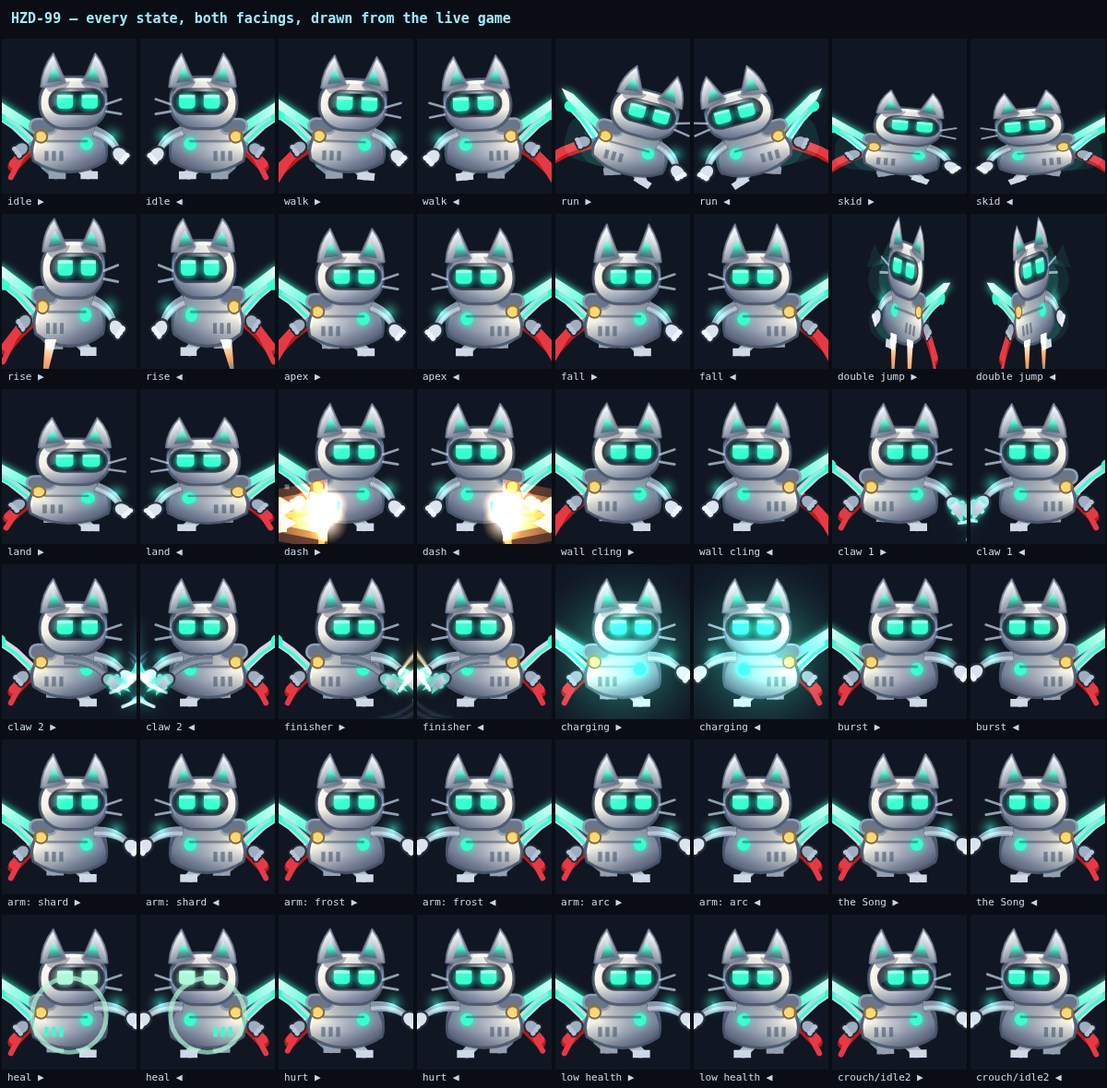
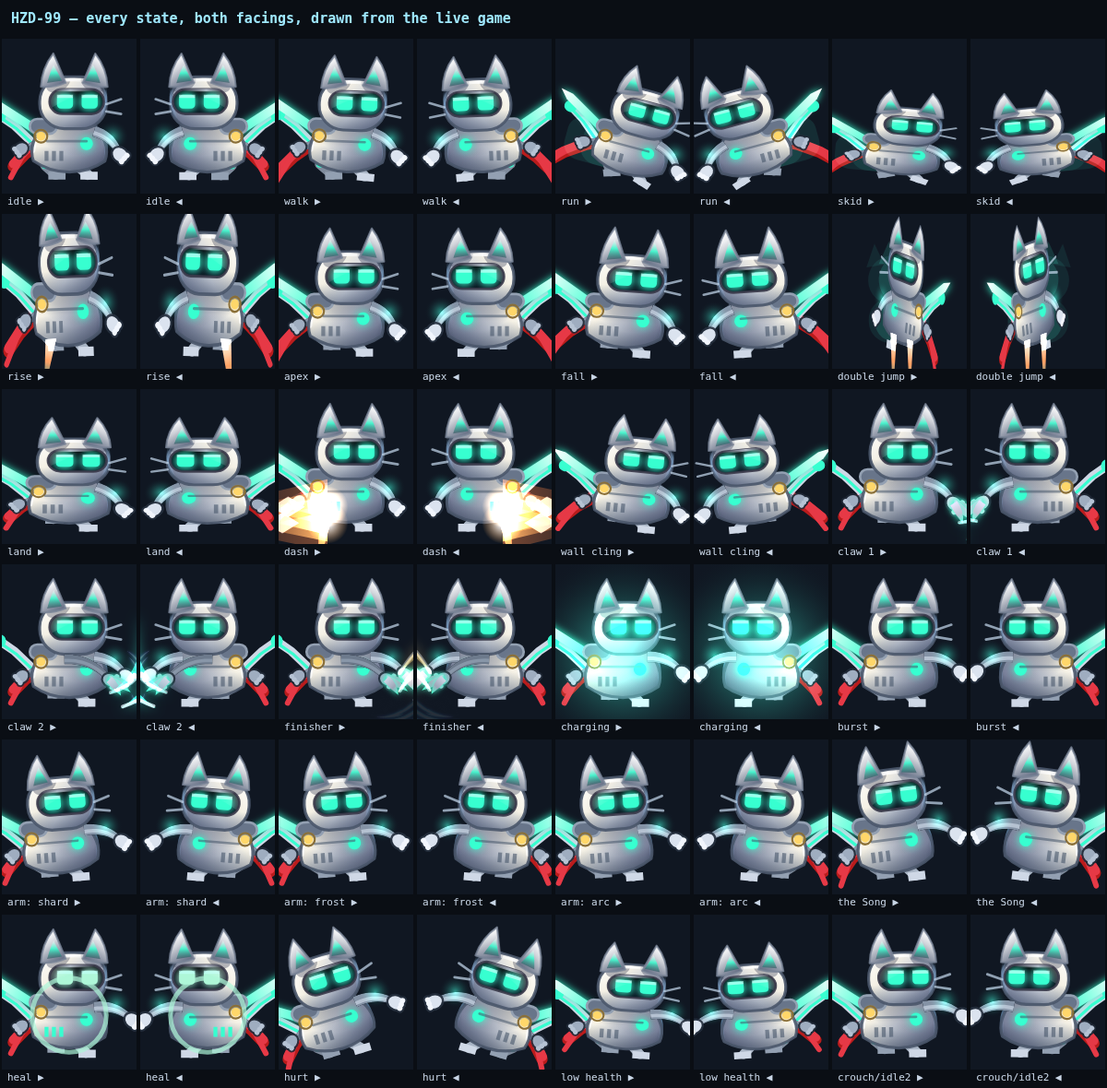
Every state she has now has a body — and the law that keeps it that way
"Impress me" is the brief, and the impressive thing available without the art
socket is closing the gap the state sheet exposed: states where she has the
mechanic and idle's body. The count is now zero, and it is HELD at zero.

THE SILHOUETTE LAW APPLIES TO HER NOW. The guardians have obeyed §3.3 since
the bible was written; she never did. tests/hero.cjs renders fourteen named
states and fails the build if any of them matches idle above IoU 0.90 — looser
than the guardians' 0.86 because her poses are carriage and lean rather than
limbs thrown a body-length, but a line, with teeth.

WHAT THE LAW CAUGHT ON ITS FIRST RUN: mid-air, she measured 0.92 against
standing still. Rising and falling were a standing picture on a parabola —
the exact sin NULLFANG's leap was convicted of, in the player character,
all along. The rise is drawn long now (stretched along the jump, tipped back
off it), the fall gathered and pitched into it, blended by vertical speed so
the apex passes through neutral.

THE THREE POSES THE SHEET CAUGHT MISSING, built in the same carriage stage as
every existing pose so they compose instead of fighting:
  the Song    up on her toes, chest lifted, head thrown back — a note thrown
              at the sky, which is what the Song is in the fiction
  arm fire    a beat of recoil off the firing line, settling with the cooldown,
              so every arm reads as having kick before its projectile is seen
[…]

diff --git a/index.html b/index.html
@@ -225,7 +225,7 @@
 })();
 </script>
 
-<script>window.BUILD_ID="mstax2i7";window.GAME_LOCK="robo";window.MUS_FILES={"ambient_observing_the_star":"assets/music/ambient_observing_the_star.ogg","epic_combat":"assets/music/epic_combat.ogg","mus_alpha":"assets/music/mus_alpha.m4a","mus_alphatame":"assets/music/mus_alphatame.m4a","mus_archives":"assets/music/mus_archives.m4a","mus_boss":"assets/music/mus_boss.m4a","mus_cache":"assets/music/mus_cache.m4a","mus_conduits":"assets/music/mus_conduits.m4a","mus_ending":"assets/music/mus_ending.m4a","mus_eye":"assets/music/mus_eye.m4a","mus_foundry":"assets/music/mus_foundry.m4a","mus_furnace":"assets/music/mus_furnace.m4a","mus_glaciere":"assets/music/mus_glaciere.m4a","mus_intro":"assets/music/mus_intro.m4a","mus_meadows":"assets/music/mus_meadows.m4a","mus_mother":"assets/music/mus_mother.m4a","mus_nest":"assets/music/mus_nest.m4a","mus_nullfang":"assets/music/mus_nullfang.m4a","mus_prism":"assets/music/mus_prism.m4a","mus_talonhost":"assets/music/mus_talonhost.m4a","mus_title":"assets/music/mus_title.m4a"};window.VID_FILES={"end_atlas":"assets/video/end_atlas.mp4","end_brood":"assets/video/end_brood.mp4","end_close":"assets/video/end_close.mp4","end_folk":"assets/video/end_folk.mp4","end_glitch":"assets/video/end_glitch.mp4","end_mother":"assets/video/end_mother.mp4","end_open":"assets/video/end_open.mp4","end_prism":"assets/video/end_prism.mp4","end_zero":"assets/video/end_zero.mp4","intro1":"assets/video/intro1.mp4","intro2":"assets/video/intro2.mp4","intro3":"assets/video/intro3.mp4","intro4":"assets/video/intro4.mp4","intro5":"assets/video/intro5.mp4","intro6":"assets/video/intro6.mp4","intro7":"assets/video/intro7.mp4","intro8":"assets/video/intro8.mp4","purify_atlas":"assets/video/purify_atlas.mp4","purify_brood":"assets/video/purify_brood.mp4","purify_glitch":"assets/video/purify_glitch.mp4","purify_prism":"assets/video/purify_prism.mp4","purify_zero":"assets/video/purify_zero.mp4"};window.VID_ALT={"end_atlas":"assets/video/end_atlas.webm","end_brood":"assets/video/end_brood.webm","end_close":"assets/video/end_close.webm","end_folk":"assets/video/end_folk.webm","end_glitch":"assets/video/end_glitch.webm","end_mother":"assets/video/end_mother.webm","end_open":"assets/video/end_open.webm","end_prism":"assets/video/end_prism.webm","end_zero":"assets/video/end_zero.webm","intro1":"assets/video/intro1.webm","intro2":"assets/video/intro2.webm","intro3":"assets/video/intro3.webm","intro4":"assets/video/intro4.webm","intro5":"assets/video/intro5.webm","intro6":"assets/video/intro6.webm","intro7":"assets/video/intro7.webm","intro8":"assets/video/intro8.webm","purify_atlas":"assets/video/purify_atlas.webm","purify_brood":"assets/video/purify_brood.webm","purify_glitch":"assets/video/purify_glitch.webm","purify_prism":"assets/video/purify_prism.webm","purify_zero":"assets/video/purify_zero.webm"};window.VOX_FILES={"lumen0":"assets/vox/lumen0.ogg","lumen1":"assets/vox/lumen1.ogg","lumen2":"assets/vox/lumen2.ogg","mono0":"assets/vox/mono0.ogg","mono1":"assets/vox/mono1.ogg","mono2":"assets/vox/mono2.ogg","patch0":"assets/vox/patch0.ogg","patch1":"assets/vox/patch1.ogg","patch2":"assets/vox/patch2.ogg","ratchet0":"assets/vox/ratchet0.ogg","ratchet1":"assets/vox/ratchet1.ogg","sage0":"assets/vox/sage0.ogg","sage1":"assets/vox/sage1.ogg","sage2":"assets/vox/sage2.ogg","servo0":"assets/vox/servo0.ogg","servo1":"assets/vox/servo1.ogg","servo2":"assets/vox/servo2.ogg","servo3":"assets/vox/servo3.ogg"}</script>
+<script>window.BUILD_ID="mstbko2l";window.GAME_LOCK="robo";window.MUS_FILES={"ambient_observing_the_star":"assets/music/ambient_observing_the_star.ogg","epic_combat":"assets/music/epic_combat.ogg","mus_alpha":"assets/music/mus_alpha.m4a","mus_alphatame":"assets/music/mus_alphatame.m4a","mus_archives":"assets/music/mus_archives.m4a","mus_boss":"assets/music/mus_boss.m4a","mus_cache":"assets/music/mus_cache.m4a","mus_conduits":"assets/music/mus_conduits.m4a","mus_ending":"assets/music/mus_ending.m4a","mus_eye":"assets/music/mus_eye.m4a","mus_foundry":"assets/music/mus_foundry.m4a","mus_furnace":"assets/music/mus_furnace.m4a","mus_glaciere":"assets/music/mus_glaciere.m4a","mus_intro":"assets/music/mus_intro.m4a","mus_meadows":"assets/music/mus_meadows.m4a","mus_mother":"assets/music/mus_mother.m4a","mus_nest":"assets/music/mus_nest.m4a","mus_nullfang":"assets/music/mus_nullfang.m4a","mus_prism":"assets/music/mus_prism.m4a","mus_talonhost":"assets/music/mus_talonhost.m4a","mus_title":"assets/music/mus_title.m4a"};window.VID_FILES={"end_atlas":"assets/video/end_atlas.mp4","end_brood":"assets/video/end_brood.mp4","end_close":"assets/video/end_close.mp4","end_folk":"assets/video/end_folk.mp4","end_glitch":"assets/video/end_glitch.mp4","end_mother":"assets/video/end_mother.mp4","end_open":"assets/video/end_open.mp4","end_prism":"assets/video/end_prism.mp4","end_zero":"assets/video/end_zero.mp4","intro1":"assets/video/intro1.mp4","intro2":"assets/video/intro2.mp4","intro3":"assets/video/intro3.mp4","intro4":"assets/video/intro4.mp4","intro5":"assets/video/intro5.mp4","intro6":"assets/video/intro6.mp4","intro7":"assets/video/intro7.mp4","intro8":"assets/video/intro8.mp4","purify_atlas":"assets/video/purify_atlas.mp4","purify_brood":"assets/video/purify_brood.mp4","purify_glitch":"assets/video/purify_glitch.mp4","purify_prism":"assets/video/purify_prism.mp4","purify_zero":"assets/video/purify_zero.mp4"};window.VID_ALT={"end_atlas":"assets/video/end_atlas.webm","end_brood":"assets/video/end_brood.webm","end_close":"assets/video/end_close.webm","end_folk":"assets/video/end_folk.webm","end_glitch":"assets/video/end_glitch.webm","end_mother":"assets/video/end_mother.webm","end_open":"assets/video/end_open.webm","end_prism":"assets/video/end_prism.webm","end_zero":"assets/video/end_zero.webm","intro1":"assets/video/intro1.webm","intro2":"assets/video/intro2.webm","intro3":"assets/video/intro3.webm","intro4":"assets/video/intro4.webm","intro5":"assets/video/intro5.webm","intro6":"assets/video/intro6.webm","intro7":"assets/video/intro7.webm","intro8":"assets/video/intro8.webm","purify_atlas":"assets/video/purify_atlas.webm","purify_brood":"assets/video/purify_brood.webm","purify_glitch":"assets/video/purify_glitch.webm","purify_prism":"assets/video/purify_prism.webm","purify_zero":"assets/video/purify_zero.webm"};window.VOX_FILES={"lumen0":"assets/vox/lumen0.ogg","lumen1":"assets/vox/lumen1.ogg","lumen2":"assets/vox/lumen2.ogg","mono0":"assets/vox/mono0.ogg","mono1":"assets/vox/mono1.ogg","mono2":"assets/vox/mono2.ogg","patch0":"assets/vox/patch0.ogg","patch1":"assets/vox/patch1.ogg","patch2":"assets/vox/patch2.ogg","ratchet0":"assets/vox/ratchet0.ogg","ratchet1":"assets/vox/ratchet1.ogg","sage0":"assets/vox/sage0.ogg","sage1":"assets/vox/sage1.ogg","sage2":"assets/vox/sage2.ogg","servo0":"assets/vox/servo0.ogg","servo1":"assets/vox/servo1.ogg","servo2":"assets/vox/servo2.ogg","servo3":"assets/vox/servo3.ogg"}</script>
 <script>
 // THE FIRST BOSS — virus-infected robot beast, and its whelps.
 //
@@ -12024,12 +12024,55 @@ class Player {
         sy += 0.18 * q; sx -= 0.1 * q;
       }
     }
+    // ---- THE THREE POSES THE STATE SHEET CAUGHT MISSING -------------------
+    // The full-state audit (tools/statesheet.cjs) put every state next to idle
+    // and three of them were the same drawing: the Song, the beat after firing
+    // an arm, and standing at one core. Each is a MECHANIC the body ignored.
+    // The fixes live here, in the same carriage/rotation stage as every other
+    // pose, so they compose with running, landing and the rest instead of
+    // fighting them — and tests/hero.cjs now holds each one to the guardians'
+    // silhouette law, so none of them can quietly become idle again.
+    //
+    // THE SONG: she stands INTO it — up on her toes, chest lifted, head back.
+    // A note thrown at the sky, which is what the Song is in the fiction.
+    const songK = this.songT > 0 ? clamp(this.songT / 0.5, 0, 1) : 0;
+    // ARM FIRE: the shot has a beat of recoil. The body rocks back off the
+    // firing line and settles as the cooldown runs out, so every arm reads as
+    // having KICK even before its projectile is seen.
+    const kick = this.armCD > 0 ? clamp(this.armCD / 0.3, 0, 1) : 0;
+    // ONE CORE LEFT: she is hurt and it shows between fights — shoulders
+    // dropped, carriage low, the run unaffected (a limp that slows the PLAYER
+    // is punishing the state twice; this is body language, not a debuff).
+    const lowK = (this.cores <= 1 && this.on && !run && this.dashT <= 0
+                  && !this.swingVis && this.healT <= 0) ? 1 : 0;
+    // AIRBORNE — the find that put this block under a harness: mid-air she
+    // measured 0.92 IoU against standing still. A standing picture on a
+    // parabola is exactly what NULLFANG's leap was convicted of, and she had
+    // been doing it herself all along. The rise stretches her ALONG the jump
+    // and tips her back off it; the fall compresses and pitches her INTO it,
+    // reading forward the way anything falling with intent does. Blended by
+    // vertical speed so the apex passes through neutral instead of popping.
+    let airRot = 0;
+    if (!this.on && this.wallSlide === 0 && this.dashT <= 0 && this.flipT <= 0
+        && this.landT <= 0 && this.hurtPoseT <= 0) {
+      const vk = clamp(this.vy / 760, -1, 1);
+      if (vk < 0) { sy += -vk * 0.13; sx -= -vk * 0.08; }   // the rise: drawn long
+      else { sy -= vk * 0.05; sx += vk * 0.04; }            // the fall: gathered
+      airRot = vk < 0 ? vk * 0.07 : vk * 0.12;              // back off it, then into it
+    }
     const cr = (this.skidT > 0 ? 0.2 : (this.wallSlide !== 0 ? 0.1 : 0))
-             + (run ? sprintK * 0.12 : 0);                          // low, coiled sprint carriage
+             + (run ? sprintK * 0.12 : 0)                           // low, coiled sprint carriage
+             - songK * 0.08                                        // the Song: drawn UP, not down
+             + lowK * 0.11;                                        // one core: sagging carriage
     if (this.wallSlide !== 0) c.translate(2.5, 0);                  // body pressed INTO the wall
+    if (kick > 0) c.translate(-2.6 * kick, 0);                      // rocked off the firing line
     c.rotate(this.lean + (this.skidT > 0 ? -0.14 : 0) + (this.wallSlide !== 0 ? 0.1 : 0)
              + (run ? sprintK * 0.3 : 0)                            // pitched forward, chasing the ground
              + (this.hurtPoseT > 0 ? -0.3 * (this.hurtPoseT / 0.3) : 0)  // thrown back, off balance
+             + airRot                                       // the leap's own pitch
+             - songK * 0.13                                        // head and chest thrown back to sing
+             - kick * 0.09                                         // recoil rocks her heels-back
+             + lowK * 0.07                                         // one core: hunched forward
              + (this.idleT > 0.9 ? Math.sin(this.idleT * 0.9) * 0.022 : 0)); // idle weight shift
     // THE FRAME THE CUT LIVES IN, captured here and not one line later. Below
     // this point the transform stops describing where she IS and starts

diff --git a/odyssey.html b/odyssey.html
@@ -225,7 +225,7 @@
 })();
 </script>
 
-<script>window.BUILD_ID="mstax2i7";window.GAME_LOCK="hero";window.MUS_FILES={"ambient_observing_the_star":"assets/music/ambient_observing_the_star.ogg","epic_combat":"assets/music/epic_combat.ogg","mus_alpha":"assets/music/mus_alpha.m4a","mus_alphatame":"assets/music/mus_alphatame.m4a","mus_archives":"assets/music/mus_archives.m4a","mus_boss":"assets/music/mus_boss.m4a","mus_cache":"assets/music/mus_cache.m4a","mus_conduits":"assets/music/mus_conduits.m4a","mus_ending":"assets/music/mus_ending.m4a","mus_eye":"assets/music/mus_eye.m4a","mus_foundry":"assets/music/mus_foundry.m4a","mus_furnace":"assets/music/mus_furnace.m4a","mus_glaciere":"assets/music/mus_glaciere.m4a","mus_intro":"assets/music/mus_intro.m4a","mus_meadows":"assets/music/mus_meadows.m4a","mus_mother":"assets/music/mus_mother.m4a","mus_nest":"assets/music/mus_nest.m4a","mus_nullfang":"assets/music/mus_nullfang.m4a","mus_prism":"assets/music/mus_prism.m4a","mus_talonhost":"assets/music/mus_talonhost.m4a","mus_title":"assets/music/mus_title.m4a"};window.VID_FILES={"end_atlas":"assets/video/end_atlas.mp4","end_brood":"assets/video/end_brood.mp4","end_close":"assets/video/end_close.mp4","end_folk":"assets/video/end_folk.mp4","end_glitch":"assets/video/end_glitch.mp4","end_mother":"assets/video/end_mother.mp4","end_open":"assets/video/end_open.mp4","end_prism":"assets/video/end_prism.mp4","end_zero":"assets/video/end_zero.mp4","intro1":"assets/video/intro1.mp4","intro2":"assets/video/intro2.mp4","intro3":"assets/video/intro3.mp4","intro4":"assets/video/intro4.mp4","intro5":"assets/video/intro5.mp4","intro6":"assets/video/intro6.mp4","intro7":"assets/video/intro7.mp4","intro8":"assets/video/intro8.mp4","purify_atlas":"assets/video/purify_atlas.mp4","purify_brood":"assets/video/purify_brood.mp4","purify_glitch":"assets/video/purify_glitch.mp4","purify_prism":"assets/video/purify_prism.mp4","purify_zero":"assets/video/purify_zero.mp4"};window.VID_ALT={"end_atlas":"assets/video/end_atlas.webm","end_brood":"assets/video/end_brood.webm","end_close":"assets/video/end_close.webm","end_folk":"assets/video/end_folk.webm","end_glitch":"assets/video/end_glitch.webm","end_mother":"assets/video/end_mother.webm","end_open":"assets/video/end_open.webm","end_prism":"assets/video/end_prism.webm","end_zero":"assets/video/end_zero.webm","intro1":"assets/video/intro1.webm","intro2":"assets/video/intro2.webm","intro3":"assets/video/intro3.webm","intro4":"assets/video/intro4.webm","intro5":"assets/video/intro5.webm","intro6":"assets/video/intro6.webm","intro7":"assets/video/intro7.webm","intro8":"assets/video/intro8.webm","purify_atlas":"assets/video/purify_atlas.webm","purify_brood":"assets/video/purify_brood.webm","purify_glitch":"assets/video/purify_glitch.webm","purify_prism":"assets/video/purify_prism.webm","purify_zero":"assets/video/purify_zero.webm"};window.VOX_FILES={"lumen0":"assets/vox/lumen0.ogg","lumen1":"assets/vox/lumen1.ogg","lumen2":"assets/vox/lumen2.ogg","mono0":"assets/vox/mono0.ogg","mono1":"assets/vox/mono1.ogg","mono2":"assets/vox/mono2.ogg","patch0":"assets/vox/patch0.ogg","patch1":"assets/vox/patch1.ogg","patch2":"assets/vox/patch2.ogg","ratchet0":"assets/vox/ratchet0.ogg","ratchet1":"assets/vox/ratchet1.ogg","sage0":"assets/vox/sage0.ogg","sage1":"assets/vox/sage1.ogg","sage2":"assets/vox/sage2.ogg","servo0":"assets/vox/servo0.ogg","servo1":"assets/vox/servo1.ogg","servo2":"assets/vox/servo2.ogg","servo3":"assets/vox/servo3.ogg"}</script>
+<script>window.BUILD_ID="mstbko2l";window.GAME_LOCK="hero";window.MUS_FILES={"ambient_observing_the_star":"assets/music/ambient_observing_the_star.ogg","epic_combat":"assets/music/epic_combat.ogg","mus_alpha":"assets/music/mus_alpha.m4a","mus_alphatame":"assets/music/mus_alphatame.m4a","mus_archives":"assets/music/mus_archives.m4a","mus_boss":"assets/music/mus_boss.m4a","mus_cache":"assets/music/mus_cache.m4a","mus_conduits":"assets/music/mus_conduits.m4a","mus_ending":"assets/music/mus_ending.m4a","mus_eye":"assets/music/mus_eye.m4a","mus_foundry":"assets/music/mus_foundry.m4a","mus_furnace":"assets/music/mus_furnace.m4a","mus_glaciere":"assets/music/mus_glaciere.m4a","mus_intro":"assets/music/mus_intro.m4a","mus_meadows":"assets/music/mus_meadows.m4a","mus_mother":"assets/music/mus_mother.m4a","mus_nest":"assets/music/mus_nest.m4a","mus_nullfang":"assets/music/mus_nullfang.m4a","mus_prism":"assets/music/mus_prism.m4a","mus_talonhost":"assets/music/mus_talonhost.m4a","mus_title":"assets/music/mus_title.m4a"};window.VID_FILES={"end_atlas":"assets/video/end_atlas.mp4","end_brood":"assets/video/end_brood.mp4","end_close":"assets/video/end_close.mp4","end_folk":"assets/video/end_folk.mp4","end_glitch":"assets/video/end_glitch.mp4","end_mother":"assets/video/end_mother.mp4","end_open":"assets/video/end_open.mp4","end_prism":"assets/video/end_prism.mp4","end_zero":"assets/video/end_zero.mp4","intro1":"assets/video/intro1.mp4","intro2":"assets/video/intro2.mp4","intro3":"assets/video/intro3.mp4","intro4":"assets/video/intro4.mp4","intro5":"assets/video/intro5.mp4","intro6":"assets/video/intro6.mp4","intro7":"assets/video/intro7.mp4","intro8":"assets/video/intro8.mp4","purify_atlas":"assets/video/purify_atlas.mp4","purify_brood":"assets/video/purify_brood.mp4","purify_glitch":"assets/video/purify_glitch.mp4","purify_prism":"assets/video/purify_prism.mp4","purify_zero":"assets/video/purify_zero.mp4"};window.VID_ALT={"end_atlas":"assets/video/end_atlas.webm","end_brood":"assets/video/end_brood.webm","end_close":"assets/video/end_close.webm","end_folk":"assets/video/end_folk.webm","end_glitch":"assets/video/end_glitch.webm","end_mother":"assets/video/end_mother.webm","end_open":"assets/video/end_open.webm","end_prism":"assets/video/end_prism.webm","end_zero":"assets/video/end_zero.webm","intro1":"assets/video/intro1.webm","intro2":"assets/video/intro2.webm","intro3":"assets/video/intro3.webm","intro4":"assets/video/intro4.webm","intro5":"assets/video/intro5.webm","intro6":"assets/video/intro6.webm","intro7":"assets/video/intro7.webm","intro8":"assets/video/intro8.webm","purify_atlas":"assets/video/purify_atlas.webm","purify_brood":"assets/video/purify_brood.webm","purify_glitch":"assets/video/purify_glitch.webm","purify_prism":"assets/video/purify_prism.webm","purify_zero":"assets/video/purify_zero.webm"};window.VOX_FILES={"lumen0":"assets/vox/lumen0.ogg","lumen1":"assets/vox/lumen1.ogg","lumen2":"assets/vox/lumen2.ogg","mono0":"assets/vox/mono0.ogg","mono1":"assets/vox/mono1.ogg","mono2":"assets/vox/mono2.ogg","patch0":"assets/vox/patch0.ogg","patch1":"assets/vox/patch1.ogg","patch2":"assets/vox/patch2.ogg","ratchet0":"assets/vox/ratchet0.ogg","ratchet1":"assets/vox/ratchet1.ogg","sage0":"assets/vox/sage0.ogg","sage1":"assets/vox/sage1.ogg","sage2":"assets/vox/sage2.ogg","servo0":"assets/vox/servo0.ogg","servo1":"assets/vox/servo1.ogg","servo2":"assets/vox/servo2.ogg","servo3":"assets/vox/servo3.ogg"}</script>
 <script>
 // THE FIRST BOSS — virus-infected robot beast, and its whelps.
 //
@@ -12024,12 +12024,55 @@ class Player {
         sy += 0.18 * q; sx -= 0.1 * q;
       }
     }
+    // ---- THE THREE POSES THE STATE SHEET CAUGHT MISSING -------------------
+    // The full-state audit (tools/statesheet.cjs) put every state next to idle
+    // and three of them were the same drawing: the Song, the beat after firing
+    // an arm, and standing at one core. Each is a MECHANIC the body ignored.
+    // The fixes live here, in the same carriage/rotation stage as every other
+    // pose, so they compose with running, landing and the rest instead of
+    // fighting them — and tests/hero.cjs now holds each one to the guardians'
+    // silhouette law, so none of them can quietly become idle again.
+    //
+    // THE SONG: she stands INTO it — up on her toes, chest lifted, head back.
+    // A note thrown at the sky, which is what the Song is in the fiction.
+    const songK = this.songT > 0 ? clamp(this.songT / 0.5, 0, 1) : 0;
+    // ARM FIRE: the shot has a beat of recoil. The body rocks back off the
+    // firing line and settles as the cooldown runs out, so every arm reads as
+    // having KICK even before its projectile is seen.
+    const kick = this.armCD > 0 ? clamp(this.armCD / 0.3, 0, 1) : 0;
+    // ONE CORE LEFT: she is hurt and it shows between fights — shoulders
+    // dropped, carriage low, the run unaffected (a limp that slows the PLAYER
+    // is punishing the state twice; this is body language, not a debuff).
+    const lowK = (this.cores <= 1 && this.on && !run && this.dashT <= 0
+                  && !this.swingVis && this.healT <= 0) ? 1 : 0;
+    // AIRBORNE — the find that put this block under a harness: mid-air she
+    // measured 0.92 IoU against standing still. A standing picture on a
+    // parabola is exactly what NULLFANG's leap was convicted of, and she had
+    // been doing it herself all along. The rise stretches her ALONG the jump
+    // and tips her back off it; the fall compresses and pitches her INTO it,
+    // reading forward the way anything falling with intent does. Blended by
+    // vertical speed so the apex passes through neutral instead of popping.
+    let airRot = 0;
+    if (!this.on && this.wallSlide === 0 && this.dashT <= 0 && this.flipT <= 0
+        && this.landT <= 0 && this.hurtPoseT <= 0) {
+      const vk = clamp(this.vy / 760, -1, 1);
+      if (vk < 0) { sy += -vk * 0.13; sx -= -vk * 0.08; }   // the rise: drawn long
+      else { sy -= vk * 0.05; sx += vk * 0.04; }            // the fall: gathered
+      airRot = vk < 0 ? vk * 0.07 : vk * 0.12;              // back off it, then into it
+    }
     const cr = (this.skidT > 0 ? 0.2 : (this.wallSlide !== 0 ? 0.1 : 0))
-             + (run ? sprintK * 0.12 : 0);                          // low, coiled sprint carriage
+             + (run ? sprintK * 0.12 : 0)                           // low, coiled sprint carriage
+             - songK * 0.08                                        // the Song: drawn UP, not down
+             + lowK * 0.11;                                        // one core: sagging carriage
     if (this.wallSlide !== 0) c.translate(2.5, 0);                  // body pressed INTO the wall
+    if (kick > 0) c.translate(-2.6 * kick, 0);                      // rocked off the firing line
     c.rotate(this.lean + (this.skidT > 0 ? -0.14 : 0) + (this.wallSlide !== 0 ? 0.1 : 0)
              + (run ? sprintK * 0.3 : 0)                            // pitched forward, chasing the ground
              + (this.hurtPoseT > 0 ? -0.3 * (this.hurtPoseT / 0.3) : 0)  // thrown back, off balance
+             + airRot                                       // the leap's own pitch
+             - songK * 0.13                                        // head and chest thrown back to sing
+             - kick * 0.09                                         // recoil rocks her heels-back
+             + lowK * 0.07                                         // one core: hunched forward
              + (this.idleT > 0.9 ? Math.sin(this.idleT * 0.9) * 0.022 : 0)); // idle weight shift
     // THE FRAME THE CUT LIVES IN, captured here and not one line later. Below
     // this point the transform stops describing where she IS and starts

diff --git a/js/entities.js b/js/entities.js
@@ -1331,12 +1331,55 @@ class Player {
         sy += 0.18 * q; sx -= 0.1 * q;
       }
     }
+    // ---- THE THREE POSES THE STATE SHEET CAUGHT MISSING -------------------
+    // The full-state audit (tools/statesheet.cjs) put every state next to idle
+    // and three of them were the same drawing: the Song, the beat after firing
+    // an arm, and standing at one core. Each is a MECHANIC the body ignored.
+    // The fixes live here, in the same carriage/rotation stage as every other
+    // pose, so they compose with running, landing and the rest instead of
+    // fighting them — and tests/hero.cjs now holds each one to the guardians'
+    // silhouette law, so none of them can quietly become idle again.
+    //
+    // THE SONG: she stands INTO it — up on her toes, chest lifted, head back.
+    // A note thrown at the sky, which is what the Song is in the fiction.
+    const songK = this.songT > 0 ? clamp(this.songT / 0.5, 0, 1) : 0;
+    // ARM FIRE: the shot has a beat of recoil. The body rocks back off the
+    // firing line and settles as the cooldown runs out, so every arm reads as
+    // having KICK even before its projectile is seen.
+    const kick = this.armCD > 0 ? clamp(this.armCD / 0.3, 0, 1) : 0;
+    // ONE CORE LEFT: she is hurt and it shows between fights — shoulders
+    // dropped, carriage low, the run unaffected (a limp that slows the PLAYER
+    // is punishing the state twice; this is body language, not a debuff).
+    const lowK = (this.cores <= 1 && this.on && !run && this.dashT <= 0
+                  && !this.swingVis && this.healT <= 0) ? 1 : 0;
+    // AIRBORNE — the find that put this block under a harness: mid-air she
+    // measured 0.92 IoU against standing still. A standing picture on a
+    // parabola is exactly what NULLFANG's leap was convicted of, and she had
+    // been doing it herself all along. The rise stretches her ALONG the jump
+    // and tips her back off it; the fall compresses and pitches her INTO it,
+    // reading forward the way anything falling with intent does. Blended by
+    // vertical speed so the apex passes through neutral instead of popping.
+    let airRot = 0;
+    if (!this.on && this.wallSlide === 0 && this.dashT <= 0 && this.flipT <= 0
+        && this.landT <= 0 && this.hurtPoseT <= 0) {
+      const vk = clamp(this.vy / 760, -1, 1);
+      if (vk < 0) { sy += -vk * 0.13; sx -= -vk * 0.08; }   // the rise: drawn long
+      else { sy -= vk * 0.05; sx += vk * 0.04; }            // the fall: gathered
+      airRot = vk < 0 ? vk * 0.07 : vk * 0.12;              // back off it, then into it
+    }
     const cr = (this.skidT > 0 ? 0.2 : (this.wallSlide !== 0 ? 0.1 : 0))
-             + (run ? sprintK * 0.12 : 0);                          // low, coiled sprint carriage
+             + (run ? sprintK * 0.12 : 0)                           // low, coiled sprint carriage
+             - songK * 0.08                                        // the Song: drawn UP, not down
+             + lowK * 0.11;                                        // one core: sagging carriage
     if (this.wallSlide !== 0) c.translate(2.5, 0);                  // body pressed INTO the wall
+    if (kick > 0) c.translate(-2.6 * kick, 0);                      // rocked off the firing line
     c.rotate(this.lean + (this.skidT > 0 ? -0.14 : 0) + (this.wallSlide !== 0 ? 0.1 : 0)
              + (run ? sprintK * 0.3 : 0)                            // pitched forward, chasing the ground
              + (this.hurtPoseT > 0 ? -0.3 * (this.hurtPoseT / 0.3) : 0)  // thrown back, off balance
+             + airRot                                       // the leap's own pitch
+             - songK * 0.13                                        // head and chest thrown back to sing
+             - kick * 0.09                                         // recoil rocks her heels-back
+             + lowK * 0.07                                         // one core: hunched forward
              + (this.idleT > 0.9 ? Math.sin(this.idleT * 0.9) * 0.022 : 0)); // idle weight shift
     // THE FRAME THE CUT LIVES IN, captured here and not one line later. Below
     // this point the transform stops describing where she IS and starts
